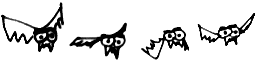
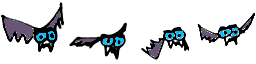
graphics, save

diff --git a/js/config.js b/js/config.js
@@ -1,6 +1,6 @@
 'use strict';
 
-var Config = {
+var Config = JSON.parse(localStorage.getItem("com_chradr_ld33")) || {
   game: {
     MAX_ENERGY: 5000,
     xp: 0,
@@ -9,17 +9,17 @@ var Config = {
     lvl: 1,
     boost: {
       archer : {
-        attack: { lvl: 0, boostPerLevel: 30, get: function() { return this.lvl * this.boostPerLevel } },
-        health: { lvl: 0, boostPerLevel: 100, get: function() { return this.lvl * this.boostPerLevel } },
-        range: { lvl: 0, boostPerLevel: 50, get: function() { return this.lvl * this.boostPerLevel } }
+        attack: { lvl: 0, boostPerLevel: 30 },
+        health: { lvl: 0, boostPerLevel: 100 },
+        range: { lvl: 0, boostPerLevel: 50 }
       },
       flyer : {
-        attack: { lvl: 0, boostPerLevel: 20, get: function() { return this.lvl * this.boostPerLevel } },
-        health: { lvl: 0, boostPerLevel: 70, get: function() { return this.lvl * this.boostPerLevel } }
+        attack: { lvl: 0, boostPerLevel: 20 },
+        health: { lvl: 0, boostPerLevel: 70 }
       },
       walker : {
-        attack: { lvl: 0, boostPerLevel: 100, get: function() { return this.lvl * this.boostPerLevel } },
-        health: { lvl: 0, boostPerLevel: 100, get: function() { return this.lvl * this.boostPerLevel } }
+        attack: { lvl: 0, boostPerLevel: 100 },
+        health: { lvl: 0, boostPerLevel: 100 }
       }
     }
   },
@@ -52,8 +52,8 @@ var Config = {
     health: 500
   },
   soldier: {
-    health: 1000,
-    maxHealth: 2000,
+    health: 500,
+    maxHealth: 1000,
     healthPerSec: 500,
     fireRate: 100,
     nextFire: 100,

diff --git a/js/soldier.js b/js/soldier.js
@@ -8,6 +8,12 @@ var Soldier = function(bullets, x, rate, power) {
 
   this.sprite.anchor.setTo(0.5, 0.5);
 
+  this.sprite.animations.add('attack',  [0, 1, 2], 30, true);
+  this.sprite.animations.add('attack_air',  [3, 4, 5], 30, true);
+  this.sprite.animations.add('idle',  [0], 10, true);
+
+  this.sprite.play('idle', 10, true)
+
   this.sprite.maxHealth = Config.soldier.maxHealth
   this.sprite.health = Config.soldier.health
 
@@ -29,7 +35,7 @@ var Soldier = function(bullets, x, rate, power) {
   this.fireRate = Config.soldier.fireRate
   this.nextFire = Config.soldier.nextFire
 
-  this.update = function(monsters) {
+  this.update = function(monsters, canRegenerate) {
 
     if (game.time.now > this.nextFire && this.bullets.countDead() > 0 && monsters.length > 0) {
 
@@ -70,10 +76,17 @@ var Soldier = function(bullets, x, rate, power) {
           closest.sprite.position.y,
           Config.soldier.bulletSpeed);
 
+
+      if(closest.sprite.position.y - this.sprite.position.y < -30) {
+        this.sprite.play('attack_air', 10, false)
+      }
+      else
+        this.sprite.play('attack', 10, false)
+
       //console.log(bullet)
     }
 
-    if(monsters.length == 0) {
+    if(monsters.length == 0 && canRegenerate) {
       this.sprite.health += (Config.soldier.healthPerSec / 1000) * game.time.elapsed
       if(this.sprite.health > Config.soldier.maxHealth) this.sprite.health = Config.soldier.maxHealth
     }

diff --git a/js/minions/walker.js b/js/minions/walker.js
@@ -8,7 +8,14 @@ var Walker = function (monster) {
 
   this.sprite = game.add.sprite(
     game.world.centerX, game.world.centerY, 'walker');
+
   this.sprite.anchor.setTo(0.5, 0.5);
+
+  this.sprite.animations.add('walk',  [0, 1, 2, 3], 30, true);
+  this.sprite.animations.add('attack',  [4, 5, 6, 7], 30, true);
+  this.sprite.animations.add('idle',  [0], 1, true);
+
+  this.sprite.play('idle', 10, true)
 
   this.sprite.item = this
 
@@ -44,11 +51,18 @@ var Walker = function (monster) {
            return prev + (that.sprite.body.position.x < cur.sprite.body.position.x) ? 1 : -1;
          }, 0) > 0) ? 1 : 0) * this.VELOCITY
 
+    if(x > 0 && this.sprite.animations.currentAnim.name == 'idle')
+      this.sprite.play('walk', 10, true)
+    if(x == 0 && this.sprite.animations.currentAnim.name == 'walk')
+      this.sprite.play('idle', 10, true)
+
     this.sprite.body.velocity.x += x
   }
   this.attack = function(what) {
     ///console.log("Attack", what)
     what.damage(this.power)
+
+    this.sprite.play('attack', 10, false)
 
     this.sprite.body.velocity.x += (this.sprite.body.position.x - what.body.position.x) * 2
     this.sprite.body.velocity.y += this.sprite.body.position.y - what.body.position.y

diff --git a/js/minions/archer.js b/js/minions/archer.js
@@ -11,12 +11,18 @@ var Archer = function (monster) {
     game.world.centerX, game.world.centerY, 'archer');
   this.sprite.anchor.setTo(0.5, 0.5);
 
+  this.sprite.animations.add('walk',  [0, 1, 2], 30, true);
+  this.sprite.animations.add('attack',  [3, 4, 5], 30, true);
+  this.sprite.animations.add('idle',  [0], 10, true);
+
+  this.sprite.play('idle', 10, true)
+
   this.sprite.item = this
 
   this.attackOnTouch = Config.archer.attackOnTouch
   this.power = Config.archer.attack
   this.fireRate = Config.archer.fireRate
-  this.fireRange = Config.archer.fireRange()
+  this.fireRange = Config.archer.range
   this.nextFire = Config.archer.nextFire
 
   game.physics.enable(this.sprite, Phaser.Physics.ARCADE)
@@ -74,8 +80,16 @@ console.log(dest)
             1500);
       }
       this.sprite.body.velocity.x = 0
+
+      this.sprite.play('attack', 10, false)
     }
     else this.sprite.body.velocity.x += this.VELOCITY
+
+    if(this.sprite.body.velocity.x == 0 && this.sprite.animations.currentAnim.name == 'walk')
+      this.sprite.play('idle', 10, true)
+
+    if(this.sprite.body.velocity.x > 0 && this.sprite.animations.currentAnim.name == 'idle')
+      this.sprite.play('walk', 10, true)
   }
 };
 

diff --git a/js/main.js b/js/main.js
@@ -24,14 +24,17 @@ var PreloaderScene = {
     // TODO: load here the assets for the game
     this.game.load.image('logo', 'images/phaser.png');
     this.game.load.image('monster', 'images/monster.png');
-    this.game.load.image('walker', 'images/walker.png');
+    //this.game.load.image('walker', 'images/walker.png');
     //this.game.load.image('flyer', 'images/flyer.png');
     this.game.load.image('bullet', 'images/bullet.png');
-    this.game.load.image('soldier', 'images/soldier.png');
+    //this.game.load.image('soldier', 'images/soldier.png');
     this.game.load.image('bomb', 'images/bomb.png');
     this.game.load.image('shield', 'images/shield.png');
 
     this.game.load.spritesheet('flyer', 'images/flyer_anim.png', 64, 64, 4);
+    this.game.load.spritesheet('walker', 'images/walker_anim.png', 64, 64, 8);
+    this.game.load.spritesheet('soldier', 'images/soldier_anim.png', 64, 64, 6);
+    this.game.load.spritesheet('archer', 'images/archer_anim.png', 32, 50, 8);
 
     this.game.load.image('health_bkg', 'images/health_bkg.png');
     this.game.load.image('health', 'images/health.png');

diff --git a/js/play_scene.js b/js/play_scene.js
@@ -66,6 +66,7 @@ var PlayScene = {
           if(Config.game.upgrades > 0) {
             Config.game.upgrades -= 1
 
+            Config.game.boost[mob][skill].lvl += 1
             Config[mob][skill] = Config[mob][skill] * 1.1
             Config[mob].price = Config[mob].price * 1.2
 
@@ -169,8 +170,9 @@ var PlayScene = {
     this.soldiers = this.soldiers.filter(function(e) { return e.sprite.alive })
     this.monster.update(this.soldiers)
     var minions = this.monster.minions
+    var that = this
     this.soldiers.map(function(e) {
-      e.update(minions)
+      e.update(minions, that.minionsBullets.countLiving() + that.monster.monsterBombs.countLiving() == 0)
     })
 
     game.physics.arcade.overlap(
@@ -194,6 +196,7 @@ var PlayScene = {
     if(this.soldiers.length == 0) {
       Config.game.lvl += 1
       game.state.start('menu')
+      localStorage.setItem("com_chradr_ld33", JSON.stringify(Config))
     }
   },
   bulletHit: function(minion, bullet) {
